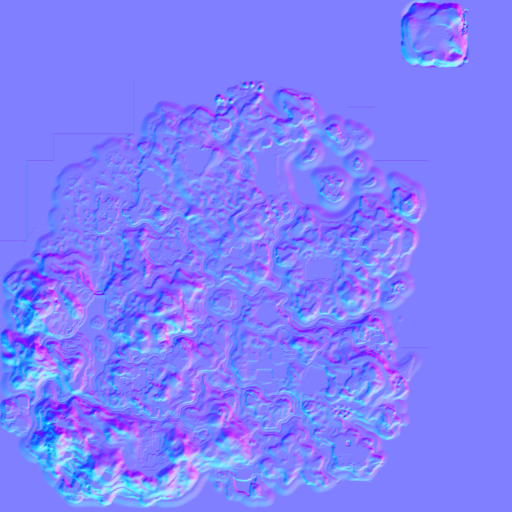
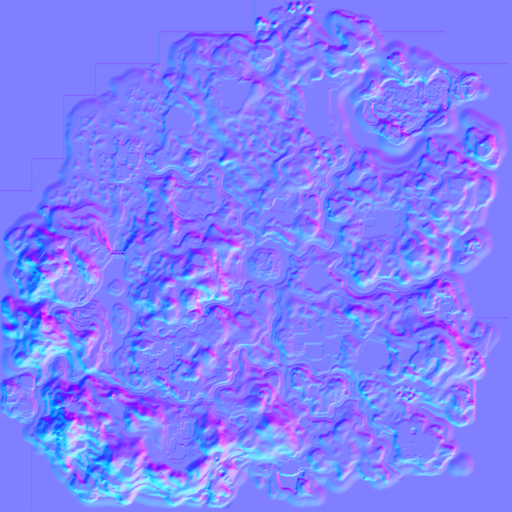
Update for Fortnite v14.0.0

diff --git a/fortnite-tga-slice.py b/fortnite-tga-slice.py
@@ -29,7 +29,7 @@ if mapIdentifier not in  { 'apollo', 'papaya' }:
     sys.exit('unknown map identifier \'' + mapIdentifier + '\'')
 
 if mapIdentifier == 'apollo':
-        numTiles = 361
+        numTiles = 256
 elif mapIdentifier == 'papaya':
         numTiles = 64
 
@@ -57,7 +57,7 @@ tile_height = { 0: 128 }[lod]
 # tile_offset = int({ 0: 0, 1: 512 * 512 * 4 * (1.0), 2: 512 * 512 * 4 * (1.0 + 0.25)}[lod])
 
 if mapIdentifier == 'apollo':
-        tile_scale = 19;
+        tile_scale = 16;
 elif mapIdentifier == 'papaya':
         tile_scale = 8;
 
@@ -93,11 +93,7 @@ def extract_tiles(asset_path, offsets, height_target, normal_target, texture_key
                 channel_r = numpy.asarray(tile_b).flatten()
                 channel_g = numpy.asarray(tile_a).flatten()
 
-                # since lobby texture is 512*512
-                if texture_key == 'LOBBY':
-                    channel_b = numpy.resize(numpy.uint8(), int(512 * 512));
-                else:
-                    channel_b = numpy.resize(numpy.uint8(), tile_size);
+                channel_b = numpy.resize(numpy.uint8(), tile_size);
                 channel_b.fill(255)
 
                 rgb = numpy.dstack((channel_r, channel_g, channel_b)).flatten()
@@ -112,15 +108,9 @@ def extract_tiles(asset_path, offsets, height_target, normal_target, texture_key
                 target_x = offset[0] * (tile_width - 1)
                 target_y = offset[1] * (tile_height - 1)
 
-                # since lobby texture is 512*512
-                if texture_key == 'LOBBY':
-                    tile_width = { 0: 512 }[lod]; tile_height = { 0: 512 }[lod];
-                    normal_tile = Image.frombytes('RGB', (tile_width, tile_height), rgb).crop((0, 0, 320, 320));
-                    height_tile = Image.frombytes('I;16', (tile_width, tile_height), numpy.asarray(channel_l, order = 'C')).crop((0, 0, 320, 320));
-                else:
-                    tile_width = { 0: 128 }[lod]; tile_height = { 0: 128 }[lod];
-                    normal_tile = Image.frombytes('RGB', (tile_width, tile_height), rgb);
-                    height_tile = Image.frombytes('I;16', (tile_width, tile_height), numpy.asarray(channel_l, order = 'C'));
+                tile_width = { 0: 128 }[lod]; tile_height = { 0: 128 }[lod];
+                normal_tile = Image.frombytes('RGB', (tile_width, tile_height), rgb);
+                height_tile = Image.frombytes('I;16', (tile_width, tile_height), numpy.asarray(channel_l, order = 'C'));
 
                 # ordered_index = y * 10 + x
 
@@ -154,137 +144,68 @@ normal_composite = Image.new("RGB", (tile_width * tile_scale, tile_height * tile
 height_composite = Image.new("I", (tile_width * tile_scale, tile_height * tile_scale), (26050))
 
 
-apollo_indices = {
-    
-        'AB12': {
-                
-                0: (16, 6), 8: (12, 4), 10: (13, 4), 16: (12, 5), 18: (13, 5), 26: (13, 6),
-                28: (14, 6), 30: (15, 6), 120: (12, 6),
-                 
-                },
-        
-        'AB34': {
-                
-                0: (8, 3), 2: (9, 3), 4: (10, 3), 6: (11, 3), 8: (8, 4), 10: (9, 4), 12: (10, 4),
-                14: (11, 4), 16: (8, 5), 18: (9, 5), 20: (10, 5), 22: (11, 5), 24: (8, 6),
-                26: (9, 6), 28: (10, 6),  142: (11, 6), 
-                 
-                },
+apollo_indices = { 
 
-        'AB56': {
-                
-                30: (7, 6), 28: (6, 6), 26: (5, 6), 24: (4, 6), 22: (7, 5), 20: (6, 5), 28: (6, 6),
-                2: (5, 3), 18: (5, 5), 16: (4, 5), 14: (7, 4), 12: (6, 4), 10: (5, 4), 6: (7, 3),
-                4: (6, 3),
-                 
-                },
-
-        'AB78': {
-                
-                20: (2, 5), 30: (3, 6), 28: (2, 6), 26: (1, 6), 22: (3, 5),
-                
-                },
-
-        'CD12': {
-                
-                24: (12, 10), 22: (15, 9), 20: (14, 9), 2: (13, 7), 18: (13, 9), 16: (12, 9),
-                14: (15, 8), 123: (12, 7), 12: (14, 8), 10: (13, 8), 8: (12, 8), 6: (15, 7),
-                4: (14, 7), 30: (15, 10), 28: (14, 10), 24: (12, 10), 26: (13, 10), 
-                
-                },
-
-        'CD34': {
-                
-                8: (8, 8), 4: (10, 7), 30: (11, 10), 28: (10, 10), 26: (9, 10), 24: (8, 10),
-                22: (11, 9), 20: (10, 9), 2: (9, 7), 18: (9, 9), 16: (8, 9), 14: (11, 8),
-                131: (11, 7), 12: (10, 8), 10: (9, 8), 0: (8, 7),
-                
-                },
-        
-        'CD56': {
-                
-                12: (6, 8), 10: (5, 8), 0: (4, 7), 8: (4, 8), 6: (7, 7), 4: (6, 7), 30: (7, 10),
-                28: (6, 10), 26: (5, 10), 24: (4, 10), 22: (7, 9), 20: (6, 9), 2: (5, 7),
-                18: (5, 9), 16: (4, 9), 14: (7, 8), 
-                
-                },
-
-        'CD78': {
-                
-                4: (2, 7), 30: (3, 10), 28: (2, 10), 26: (1, 10), 24: (0, 10), 22: (3, 9),
-                20: (2, 9), 2: (1, 7), 18: (1, 9), 16: (0, 9), 14: (3, 8), 12: (2, 8),
-                10: (1, 8), 6: (3, 7), 
-                
-                },
-
-        'EF12': {
-                
-                18: (12, 11), 16: (12, 12), 14: (12, 13), 12: (12, 14), 10: (13, 14), 0: (15, 11),
-                8: (14, 14), 6: (15, 14), 4: (15, 13), 30: (13, 13), 28: (14, 13), 26: (13, 12),
-                24: (14, 12), 22: (14, 11), 20: (13, 11), 
-                
-                },
-
-        'EF34': {
-                
-                12: (10, 12), 10: (9, 12), 0: (8, 11), 8: (8, 12), 6: (11, 11), 4: (10, 11), 30: (11, 14),
-                28: (10, 14), 26: (9, 14), 24: (8, 14), 22: (11, 13), 20: (10, 13), 2: (9, 11),
-                18: (9, 13), 16: (8, 13), 14: (11, 12), 
-                
-                },
-
-        'EF56': {
-                
-                6: (7, 11), 4: (6, 11), 30: (7, 14), 28: (6, 14), 26: (5, 14), 24: (4, 14), 22: (7, 13),
-                20: (6, 13), 2: (5, 11), 18: (5, 13), 16: (4, 13), 14: (7, 12), 12: (6, 12), 10: (5, 12),
-                0: (4, 11), 8: (4, 12), 
-                
-                },
-
-        'EF78': {
-                
-                12: (2, 12), 10: (1, 12), 0: (0, 11), 8: (0, 12), 6: (3, 11), 4: (2, 11), 30: (3, 14),
-                28: (2, 14), 26: (1, 14), 24: (0, 14), 22: (3, 13), 20: (2, 13), 2: (1, 11), 18: (1, 13),
-                16: (0, 13), 14: (3, 12), 
-                
-                },
-        
-        'GH12': {
-                
-                10: (13, 15),  0: (15, 16), 8: (14, 15), 6: (15, 15), 30: (14, 16),  28: (13, 16),
-                26: (13, 17),  24: (14, 17),  18: (12, 18),  16: (12, 17), 14: (12, 16), 12: (12, 15),     
-                
-                },
-
-        'GH34': {
-                
-                12: (10, 16), 10: (9, 16), 0: (8, 15), 8: (8, 16), 6: (11, 15), 4: (10, 15),
-                30: (11, 18), 28: (10, 18), 26: (9, 18), 24: (8, 18), 22: (11, 17), 20: (10, 17),
-                2: (9, 15), 18: (9, 17), 16: (8, 17), 14: (11, 16), 
-                
-                },
-
-        'GH56': {
-                
-                12: (6, 16), 10: (5, 16), 0: (4, 15), 8: (4, 16), 6: (7, 15), 4: (6, 15),
-                30: (7, 18), 28: (6, 18), 26: (5, 18), 24: (4, 18), 22: (7, 17), 20: (6, 17),
-                2: (5, 15), 18: (5, 17), 16: (4, 17), 14: (7, 16), 
-                
-                },
-
-        'GH78': {
-                
-                2: (1, 15), 18: (1, 17), 16: (0, 17), 14: (3, 16), 12: (2, 16), 10: (1, 16),
-                0: (0, 15), 8: (0, 16), 6: (3, 15), 4: (2, 15), 30: (3, 18), 28: (2, 18),
-                26: (1, 18), 24: (0, 18), 22: (3, 17), 20: (2, 17), 
-                
-                },
-
-        'LOBBY': {
-                
-                0: (15, 0),
-                
-                },
+'A4': { 0: (8, 0), 10: (9, 0), 5: (8, 1), 15: (9, 1), }, 
+'A3': { 0: (10, 0), 10: (11, 0), 5: (10, 1), 15: (11, 1), },
+'A6': { 5: (5, 1), }, 
+'A5': { 5: (6, 1), 15: (7, 1), }, 
+'A2': { 5: (12, 1), 10: (13, 1), }, 
+'B7': { 10: (3, 2), 5: (2, 3), 15: (3, 3), }, 
+'B6': { 0: (4, 2), 10: (5, 2), 5: (4, 3), 15: (5, 3), }, 
+'B5': { 0: (6, 2), 10: (7, 2), 5: (6, 3), 15: (7, 3), }, 
+'B4': { 0: (8, 2), 10: (9, 2), 5: (8, 3), 15: (9, 3), }, 
+'B3': { 0: (10, 2), 10: (11, 2), 5: (10, 3), 15: (11, 3), },
+'B2': { 0: (12, 2), 10: (13, 2), 5: (12, 3), 15: (13, 3), }, 
+'B1': { 14: (14, 2), 20: (15, 2), 0: (14, 3), 5: (15, 3), },
+'C7': { 0: (2, 4), 10: (3, 4), 5: (2, 5), 15: (3, 5), }, 
+'C6': { 0: (4, 4), 10: (5, 4), 5: (4, 5), 15: (5, 5), }, 
+'C5': { 0: (6, 4), 10: (7, 4), 5: (6, 5), 15: (7, 5), },
+'C4': { 0: (8, 4), 10: (9, 4), 5: (8, 5), 15: (9, 5), }, 
+'C3': { 0: (10, 4), 10: (11, 4), 5: (10, 5), 15: (11, 5), }, 
+'C2': { 0: (12, 4), 10: (13, 4), 5: (12, 5), 15: (13, 5), },
+'C1': { 0: (14, 4), 10: (15, 4), 5: (14, 5), 15: (15, 5), }, 
+'C8': { 5: (1, 5), }, 
+'D8': { 0: (0, 6), 10: (1, 6), 5: (0, 7), 15: (1, 7), }, 
+'D7': { 0: (2, 6), 10: (3, 6), 5: (2, 7), 15: (3, 7), }, 
+'D6': { 0: (4, 6), 10: (5, 6), 5: (4, 7), 15: (5, 7), },
+'D5': { 0: (6, 6), 10: (7, 6), 5: (6, 7), 15: (7, 7), }, 
+'D4': { 0: (8, 6), 10: (9, 6), 5: (8, 7), 15: (9, 7), },
+'D3': { 0: (10, 6), 10: (11, 6), 5: (10, 7), 15: (11, 7), }, 
+'D2': { 0: (12, 6), 10: (13, 6), 5: (12, 7), 15: (13, 7), }, 
+'D1': { 0: (14, 6), 10: (15, 6), 5: (14, 7), 15: (15, 7), }, 
+'E8': { 0: (0, 8), 10: (1, 8), 5: (0, 9), 15: (1, 9), },
+'E7': { 0: (2, 8), 10: (3, 8), 5: (2, 9), 15: (3, 9), }, 
+'E6': { 0: (4, 8), 10: (5, 8), 5: (4, 9), 15: (5, 9), }, 
+'E5': { 0: (6, 8), 10: (7, 8), 5: (6, 9), 15: (7, 9), }, 
+'E4': { 0: (8, 8), 10: (9, 8), 5: (8, 9), 15: (9, 9), }, 
+'E3': { 0: (10, 8), 10: (11, 8), 5: (10, 9), 15: (11, 9), }, 
+'E2': { 0: (12, 8), 10: (13, 8), 5: (12, 9), 15: (13, 9), }, 
+'E1': { 0: (14, 8), 10: (15, 8), 5: (14, 9), }, 
+'F8': { 0: (0, 10), 10: (1, 10), 5: (0, 11), 15: (1, 11), }, 
+'F7': { 0: (2, 10), 10: (3, 10), 5: (2, 11), 15: (3, 11), },
+'F6': { 0: (4, 10), 10: (5, 10), 5: (4, 11), 15: (5, 11), }, 
+'F5': { 0: (6, 10), 10: (7, 10), 5: (6, 11), 15: (7, 11), }, 
+'F4': { 0: (8, 10), 10: (9, 10), 5: (8, 11), 15: (9, 11), },
+'F3': { 0: (10, 10), 10: (11, 10), 5: (10, 11), 15: (11, 11), }, 
+'F2': { 0: (12, 10), 10: (13, 10), 5: (12, 11), 15: (13, 11), }, 
+'F1': { 0: (14, 10), 10: (15, 10), 5: (14, 11), 15: (15, 11), }, 
+'G8': { 0: (0, 12), 10: (1, 12), 5: (0, 13), 15: (1, 13), },
+'G7': { 0: (2, 12), 10: (3, 12), 5: (2, 13), 15: (3, 13), }, 
+'G6': { 0: (4, 12), 10: (5, 12), 5: (4, 13), 15: (5, 13), }, 
+'G5': { 0: (6, 12), 10: (7, 12), 5: (6, 13), 15: (7, 13), }, 
+'G4': { 0: (8, 12), 10: (9, 12), 5: (8, 13), 15: (9, 13), }, 
+'G3': { 0: (10, 12), 10: (11, 12), 5: (10, 13), 15: (11, 13), }, 
+'G2': { 0: (12, 12), 10: (13, 12), 5: (12, 13), 15: (13, 13), },
+'G1': { 0: (14, 12), 5: (14, 13), }, 
+'H8': { 10: (1, 14), 15: (1, 15), },
+'H7': { 0: (2, 14), 10: (3, 14), 5: (2, 15), 15: (3, 15), }, 
+'H6': { 0: (4, 14), 10: (5, 14), 5: (4, 15), 15: (5, 15), }, 
+'H5': { 0: (6, 14), 10: (7, 14), 5: (6, 15), 15: (7, 15), }, 
+'H4': { 0: (8, 14), 10: (9, 14), 5: (8, 15), 15: (9, 15), }, 
+'H3': { 0: (10, 14), 10: (11, 14), 5: (10, 15), 15: (11, 15), }, 
+'H2': { 0: (12, 14), 10: (13, 14), 5: (12, 15), },
+'H1': { 0: (14, 14), }, 
 
 }
 
@@ -344,7 +265,7 @@ for key in offset_lookup.keys():
 
 
 if mapIdentifier == 'apollo':
-        map_size_info  = ['2.432k'][0]
+        map_size_info  = ['2.048k'][0]
 elif mapIdentifier == 'papaya':
         map_size_info  = ['1.024k'][0]
 
